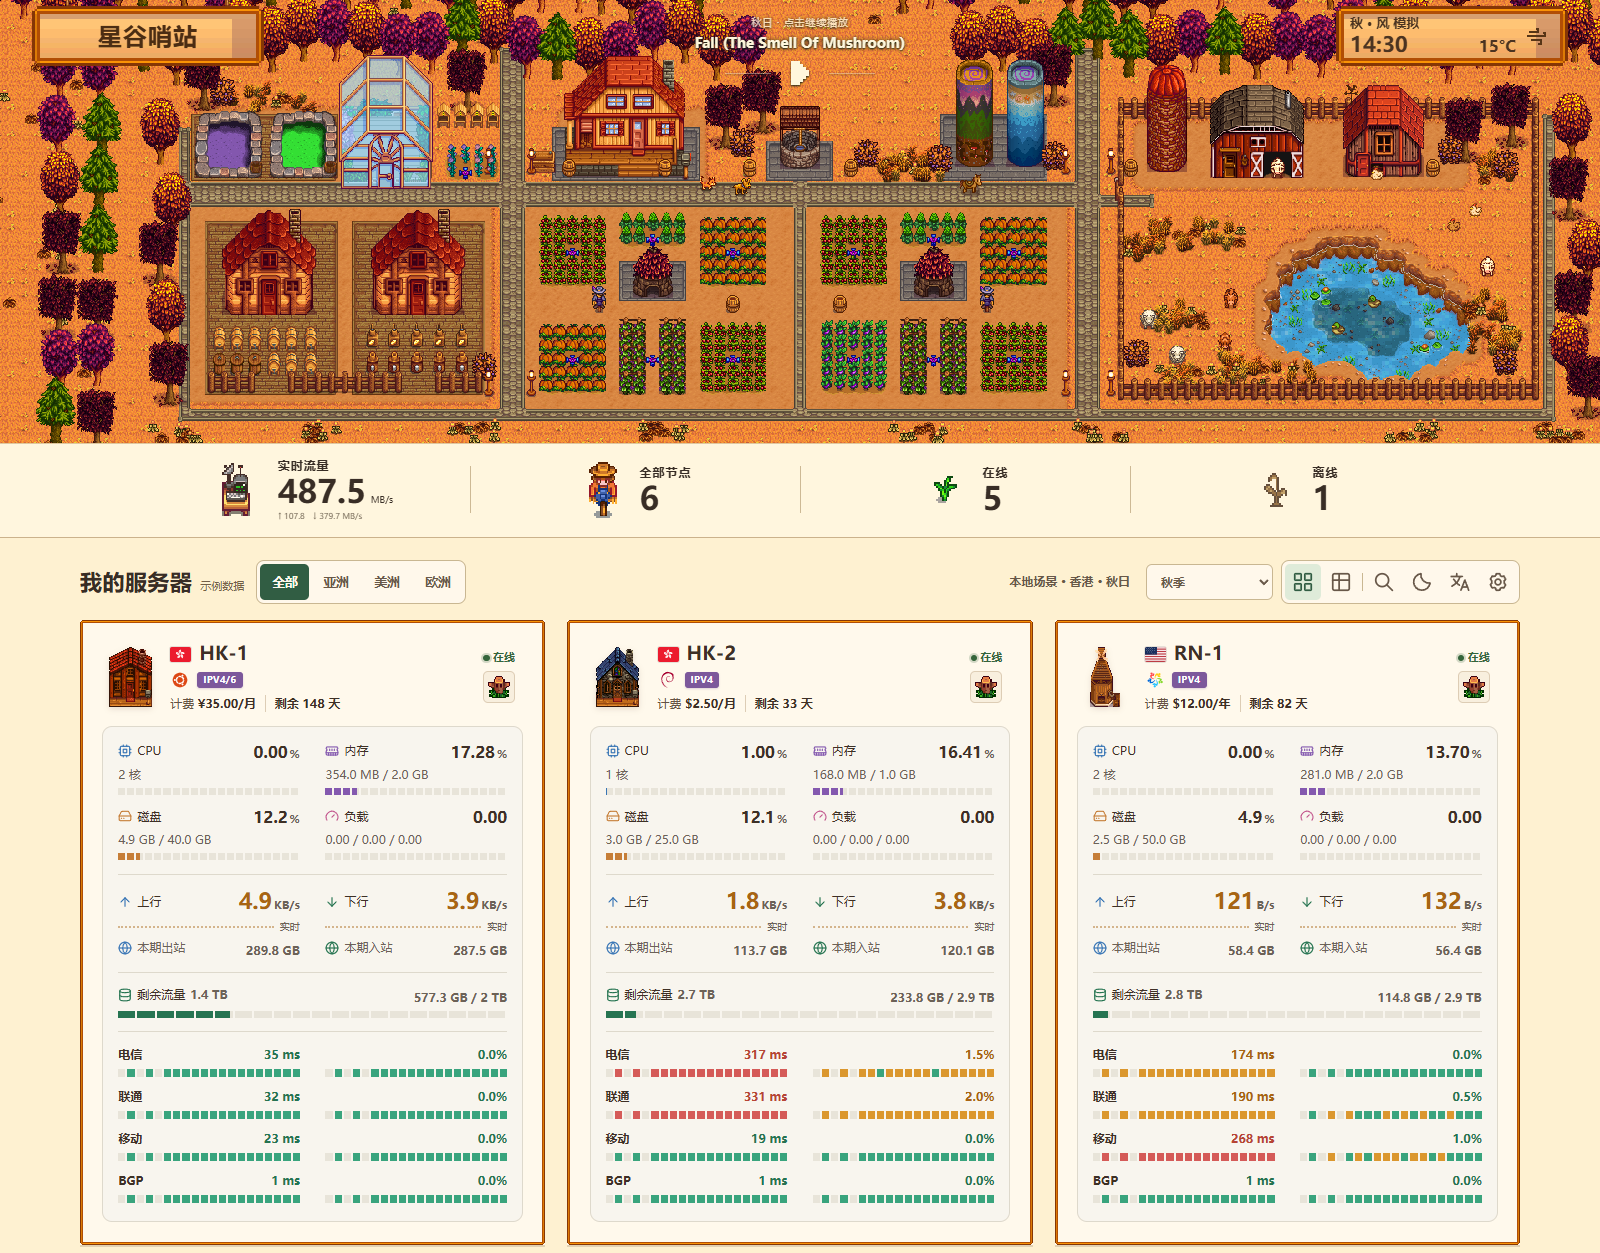
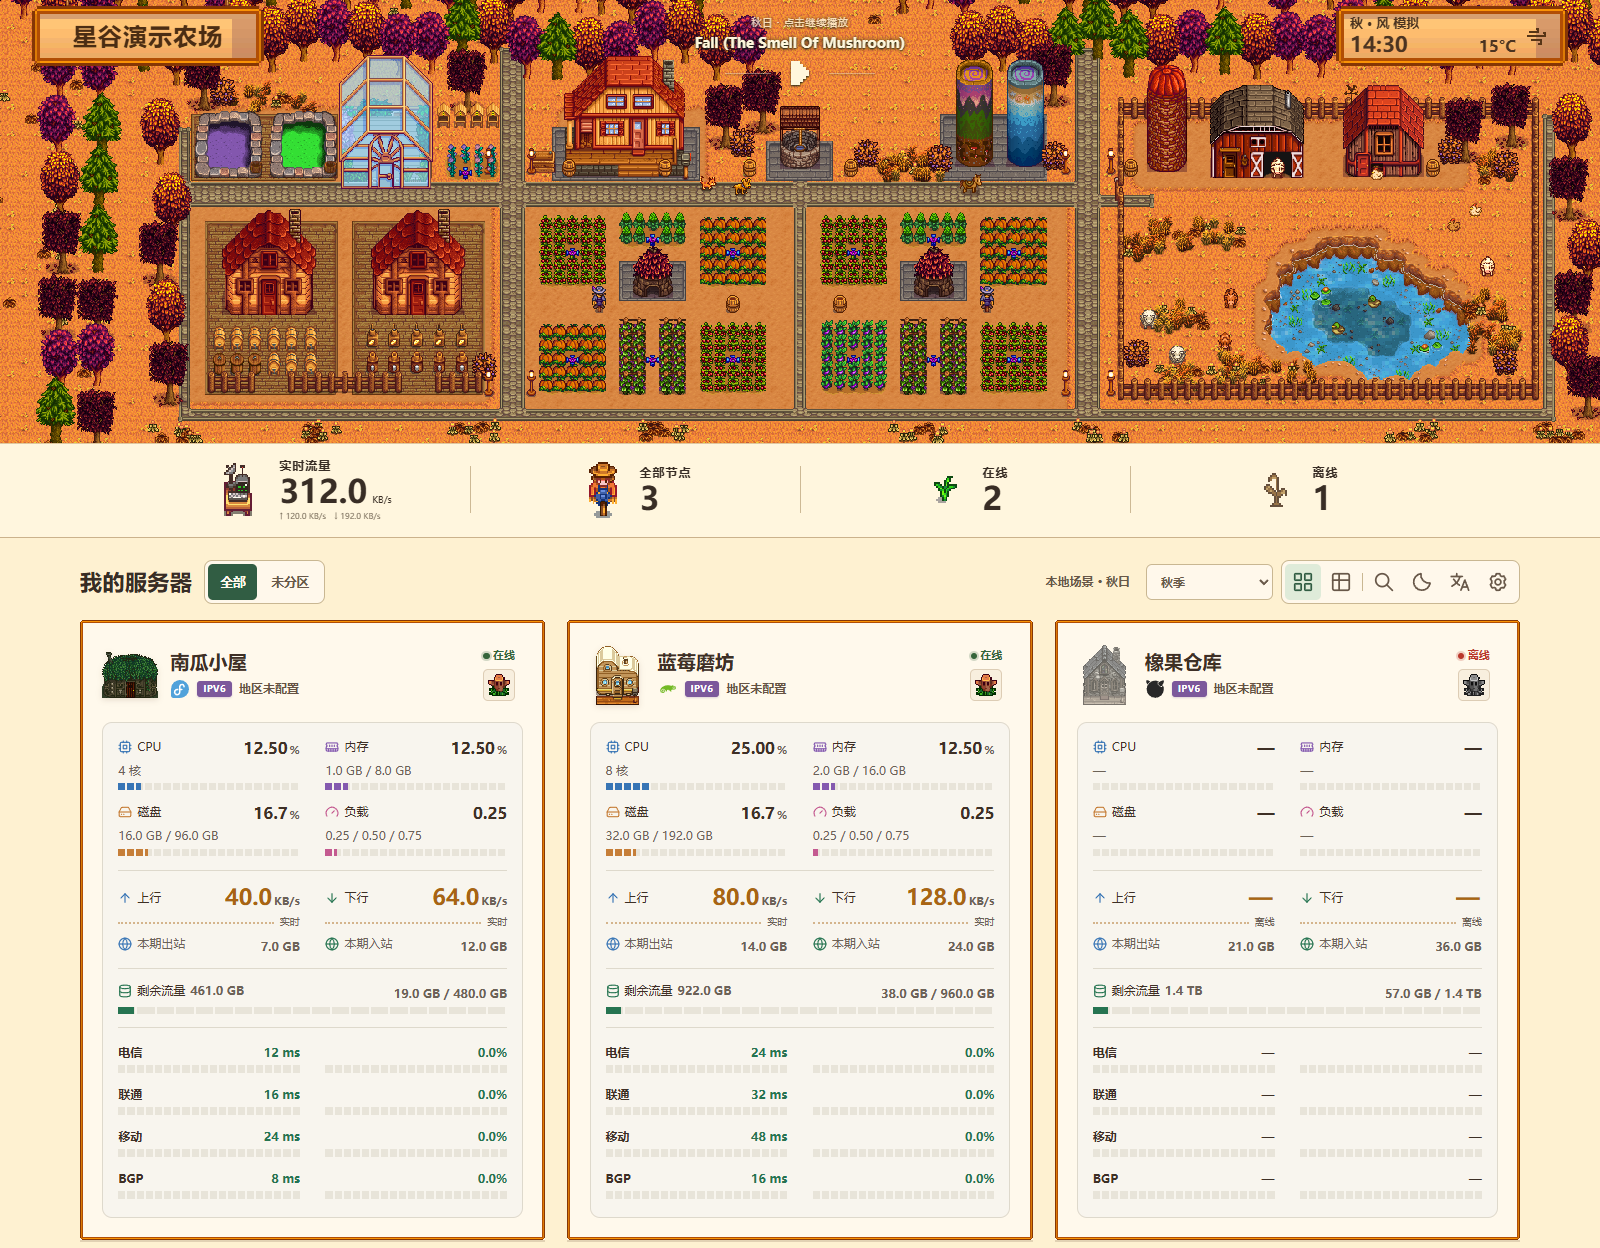
Use entirely fictional farm nodes in the public guide and screenshots

diff --git a/README.md b/README.md
@@ -21,7 +21,7 @@ https://github.com/howbit/stardew-monitor/tree/931080ba8df512344aff85524e2036fd3
 
 ## 白天和夜晚
 
-下面是用 Chrome 在同一宽度截取的秋季首页，两张图使用相同的示例节点。安装后，面板会显示你自己站点的数据。
+两张秋季首页截图里的南瓜小屋、蓝莓磨坊和橡果仓库都是虚构节点。截图中的在线状态、配置和监控读数均为演示数据。安装后，面板会显示你自己站点的数据。
 
 **秋日 · 14:30**　可以看到池塘、牧场和两片秋收的田地。农场下方的节点卡片会列出实时速率、流量配额、线路延迟和丢包率。
 
@@ -33,6 +33,6 @@ https://github.com/howbit/stardew-monitor/tree/931080ba8df512344aff85524e2036fd3
 
 ## 装好后，试试传送到另一座农场
 
-点在线节点卡片右侧的 **传送按钮**。如果节点已配置时区和坐标，农场会跟随那里的季节、当地时间和天气。从香港切到洛杉矶，有时正好从白天走进夜里。点 **返回本地农场** 就能回来。
+点在线节点卡片右侧的 **传送按钮**。如果节点已配置时区和坐标，农场会跟随那里的季节、当地时间和天气。选一个和你有时差的节点，有时正好能从白天走进夜里。点 **返回本地农场** 就能回来。
 
 想一次看遍四季，可以用季节菜单选春、夏、秋、冬，再点太阳或月亮切换昼夜。配乐会随场景切换。想安静看数据，点一下暂停，刷新页面或切换季节都会保留暂停状态。
